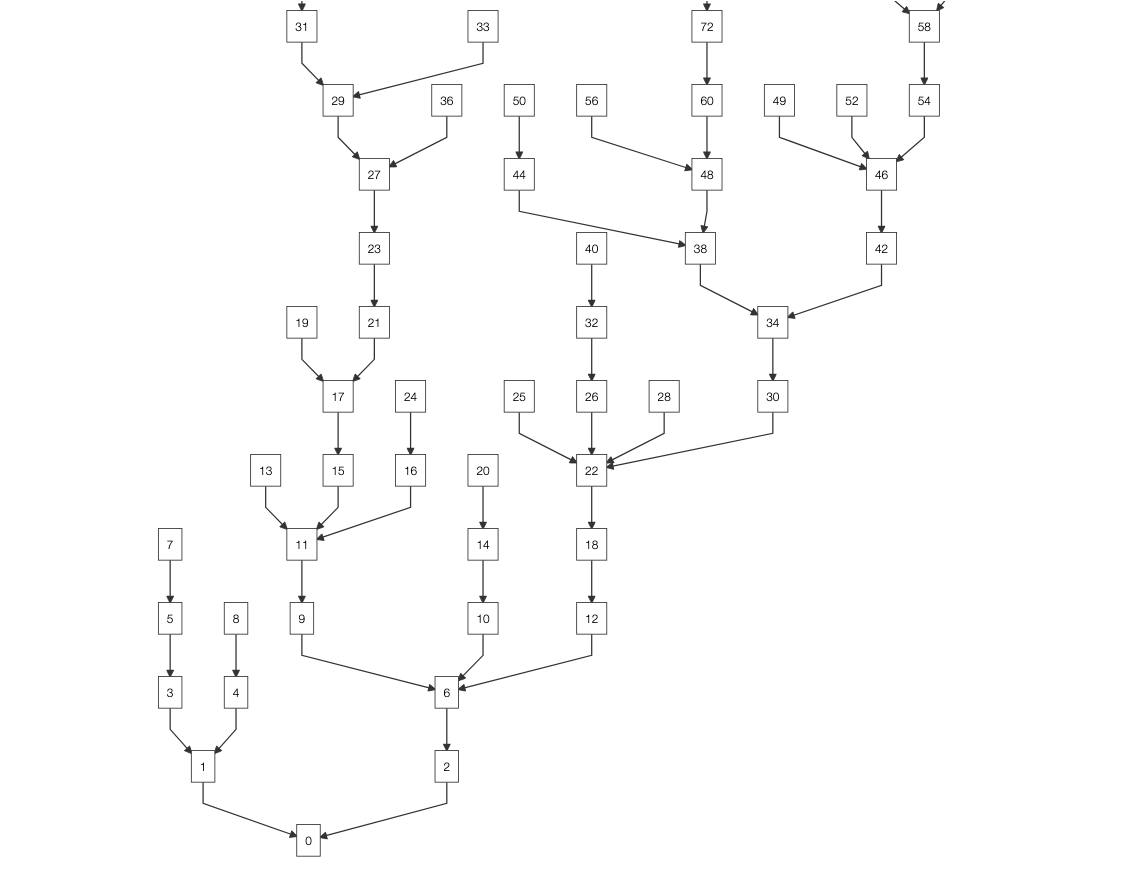
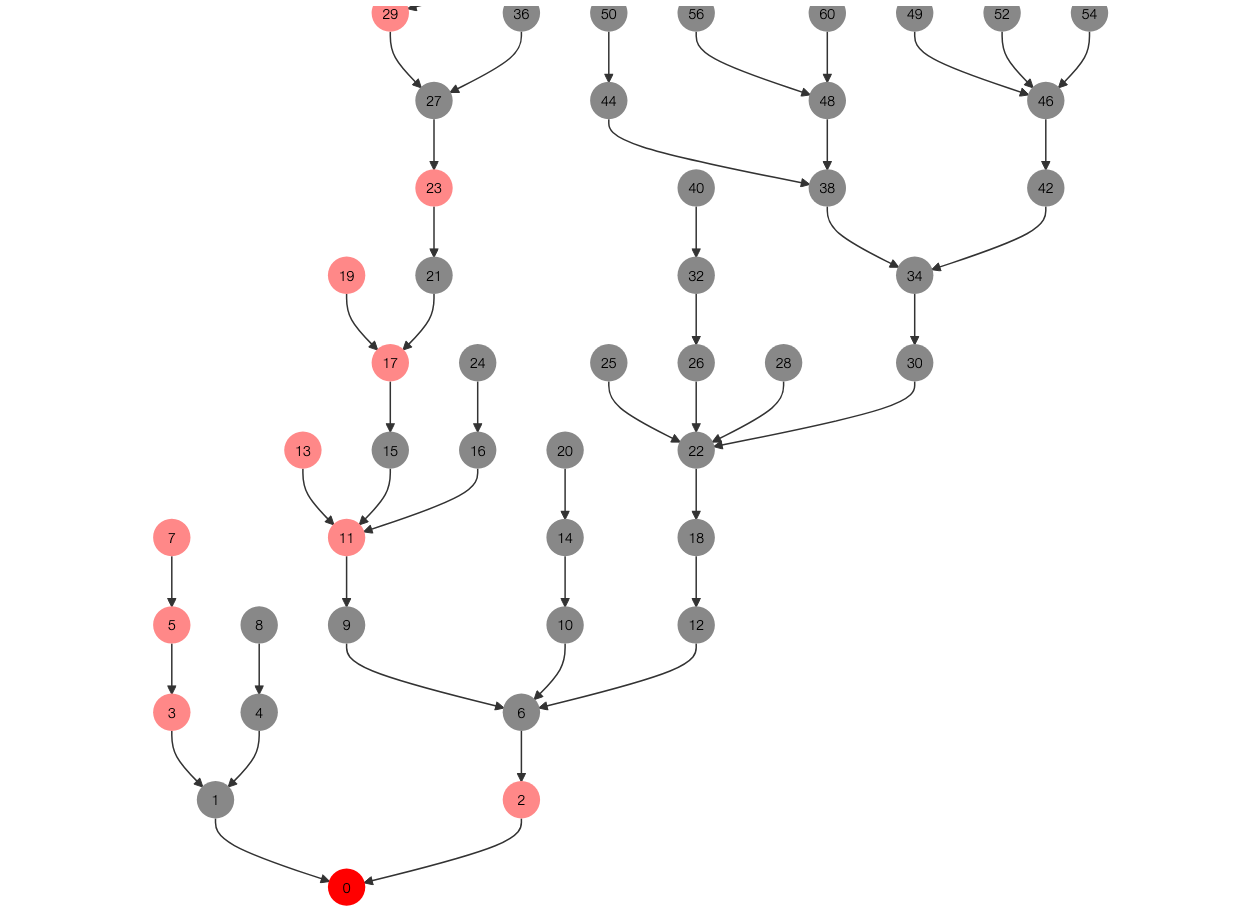
🎨  added a little more color

diff --git a/divisors.js b/divisors.js
@@ -34,11 +34,15 @@ function buildGraph() {
     // Create the renderer
     var render = new dagreD3.render();
 
-    g.setNode(0, {label: 0})
+    g.setNode(0, {label: 0, shape: "circle", style: "fill: #ff0000"})
 
     function addNode(node, instantRender){
-        g.setNode(node, {label: node});
-        g.setEdge(node,diffs[node], {label:""});
+        var isPrime = -1 != primes.indexOf(node)
+        var filling = "fill: #888888"
+        if (isPrime)
+            filling = "fill: #ff8888"
+        g.setNode(node, {label: node, style: filling, shape: "circle"});
+        g.setEdge(node,diffs[node], {label:"", curve: d3.curveBasis});
 
         // Render the graph into svg g
         if (instantRender){
